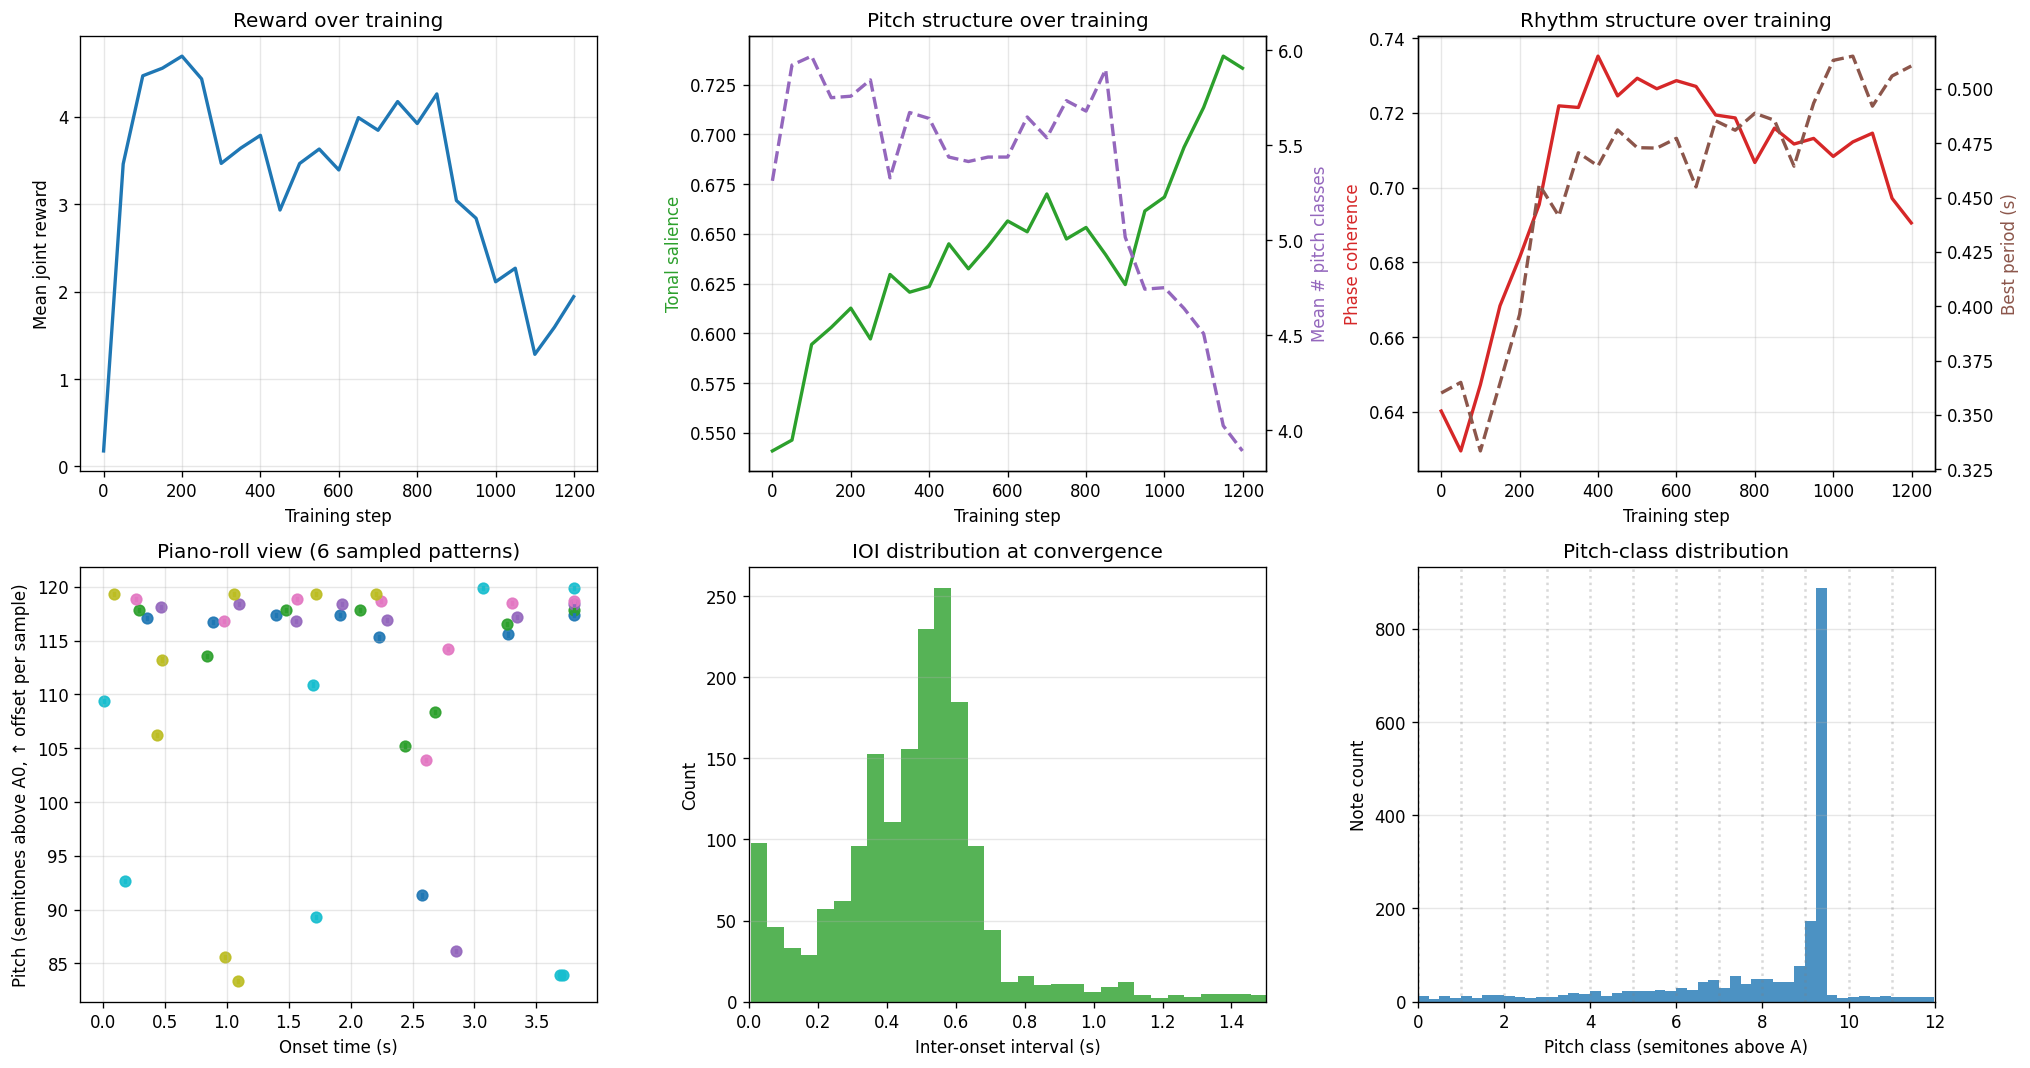
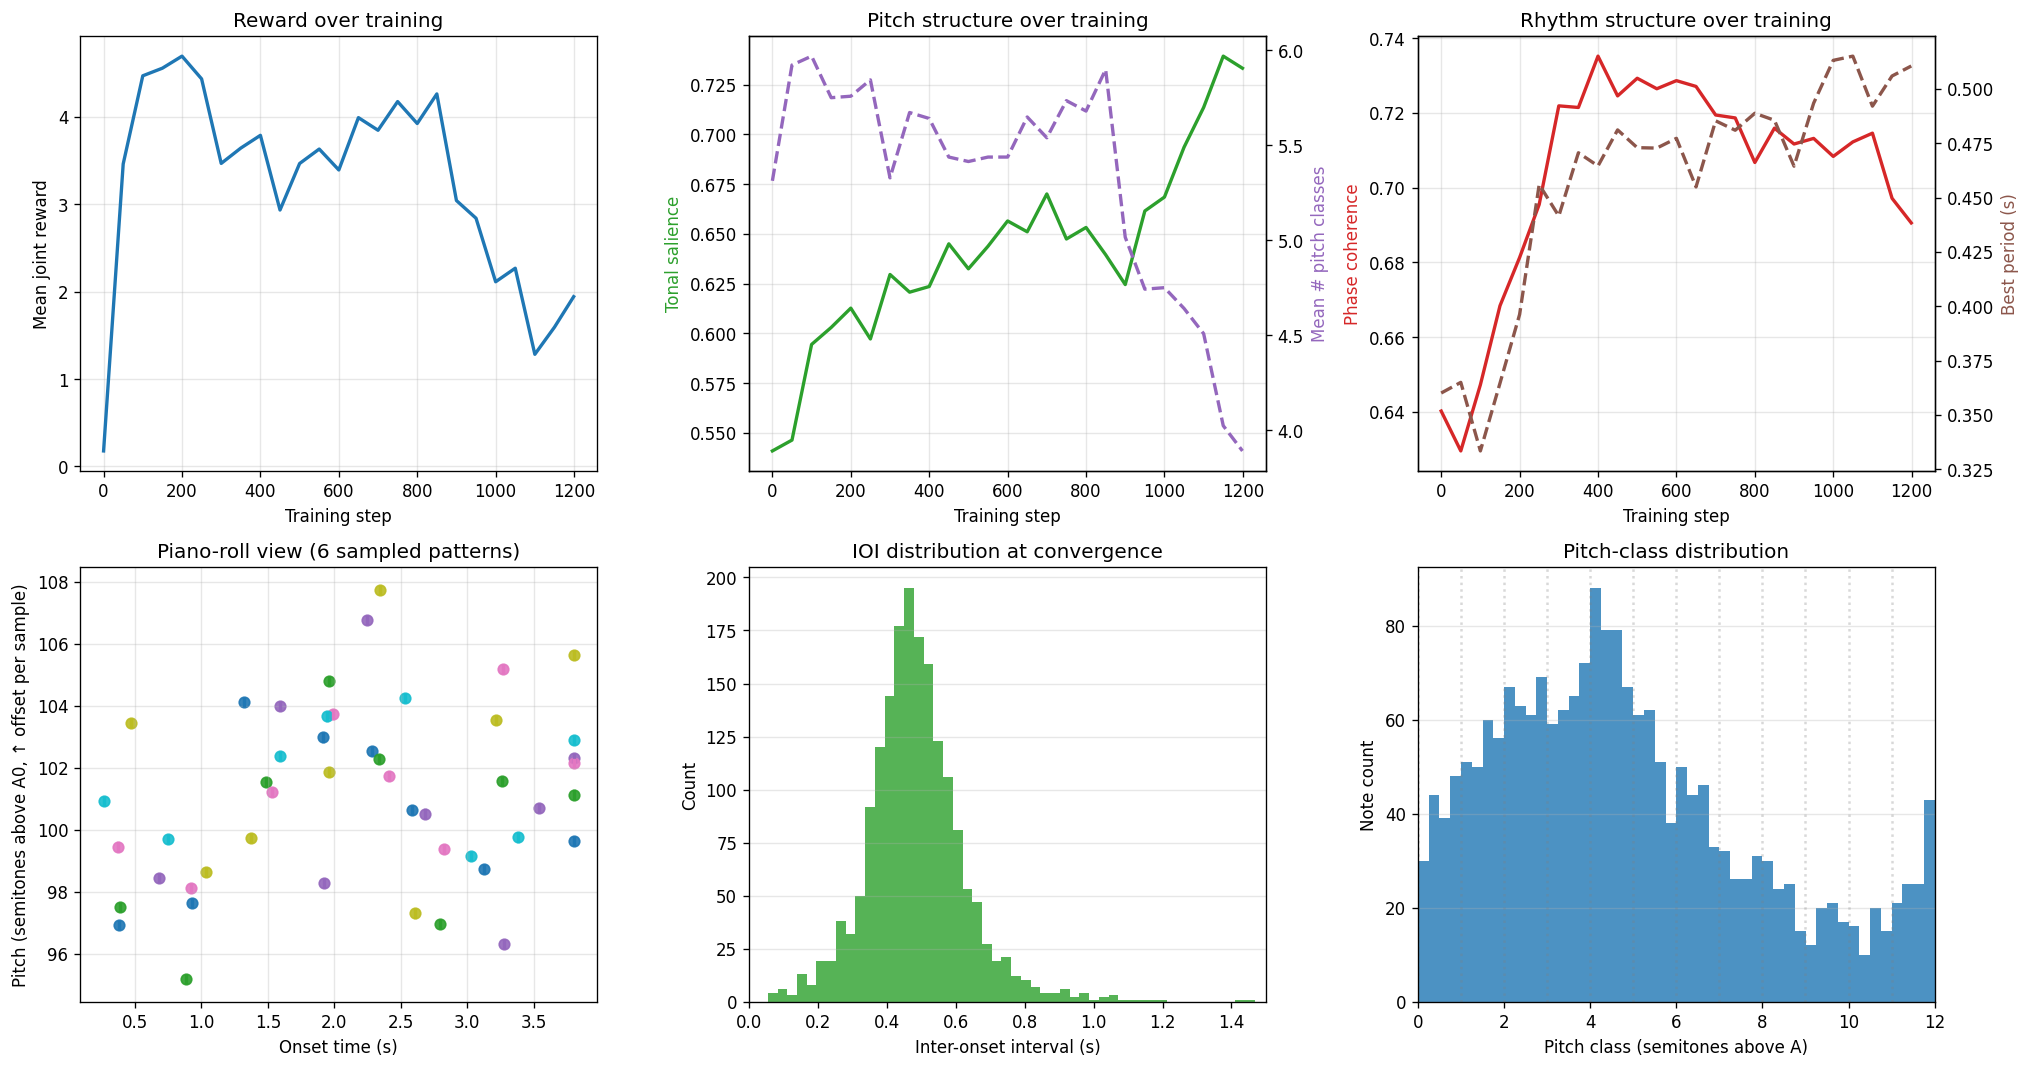
best-checkpoint saving + retrain phases 3/4/4.5
REINFORCE drift late in training can flatten otherwise good models. Each
training script now tracks the highest eval-reward checkpoint and saves
that instead of the final-step model. After retraining at the same
hyperparameters:

- Phase 3 melodies: best step 1450, reward +2.13 (random ≈ 0)
- Phase 4 rhythms:  best step 1550, reward +2.81, phase coherence ~0.83
- Phase 4.5 joint:  best step  200, reward +4.69 — a 2.5× improvement
  over the previous "final-step" save. The peak-then-decline trajectory
  in Phase 4.5 was exactly what best-ckpt is designed to rescue.

Plots and audio re-rendered from the new checkpoints.

diff --git a/src/train/triad_train.py b/src/train/triad_train.py
@@ -73,6 +73,8 @@ def train_triads(n_steps=2000, batch_size=64, lr=1e-3, log_every=50,
     out_path = Path(out_dir)
     out_path.mkdir(parents=True, exist_ok=True)
     history = []
+    best_eval_reward = -float("inf")
+    best_state = None
 
     for step in range(n_steps):
         # We need the distribution for entropy as well as log_prob,
@@ -117,7 +119,14 @@ def train_triads(n_steps=2000, batch_size=64, lr=1e-3, log_every=50,
             print(f"[{step:5d}] reward={entry['mean_reward']:+.3f}  "
                   f"diss={entry['mean_dissonance']:.3f}  "
                   f"top={top}")
+            if entry["mean_reward"] > best_eval_reward:
+                best_eval_reward = entry["mean_reward"]
+                best_state = {k: v.clone() for k, v in gen.state_dict().items()}
 
+    if best_state is not None:
+        print(f"Best eval reward: {best_eval_reward:+.3f}; "
+              "saving best checkpoint")
+        gen.load_state_dict(best_state)
     torch.save(gen.state_dict(), out_path / "triad_generator.pt")
     with open(out_path / "history.json", "w") as f:
         json.dump(history, f, indent=2)
@@ -145,6 +154,8 @@ def train_progressions(n_steps=2500, batch_size=64, lr=1e-3, log_every=50,
     out_path = Path(out_dir)
     out_path.mkdir(parents=True, exist_ok=True)
     history = []
+    best_eval_reward = -float("inf")
+    best_state = None
 
     for step in range(n_steps):
         z = torch.randn(batch_size, gen.latent_dim)
@@ -196,7 +207,14 @@ def train_progressions(n_steps=2500, batch_size=64, lr=1e-3, log_every=50,
                   f"diss={entry['mean_dissonance']:.3f}  "
                   f"vl={entry['mean_voice_leading']:.4f}  "
                   f"top={top}")
+            if entry["mean_reward"] > best_eval_reward:
+                best_eval_reward = entry["mean_reward"]
+                best_state = {k: v.clone() for k, v in gen.state_dict().items()}
 
+    if best_state is not None:
+        print(f"Best eval reward: {best_eval_reward:+.3f}; "
+              "saving best checkpoint")
+        gen.load_state_dict(best_state)
     torch.save(gen.state_dict(), out_path / "progression_generator.pt")
     with open(out_path / "history.json", "w") as f:
         json.dump(history, f, indent=2)

diff --git a/src/train/melodic_rhythm_train.py b/src/train/melodic_rhythm_train.py
@@ -61,6 +61,8 @@ def train_melodic_rhythm(n_steps=2500, batch_size=64, lr=3e-4, log_every=50,
     out_path = Path(out_dir)
     out_path.mkdir(parents=True, exist_ok=True)
     history = []
+    best_eval_reward = -float("inf")
+    best_state = None
 
     for step in range(n_steps):
         freqs, onsets, log_prob = gen.sample(batch_size)
@@ -105,7 +107,14 @@ def train_melodic_rhythm(n_steps=2500, batch_size=64, lr=3e-4, log_every=50,
                   f"#pc={entry['mean_pitch_classes']:.1f}  "
                   f"phase_coh={entry['mean_phase_coherence']:.3f}  "
                   f"period={entry['mean_period']:.3f}s")
+            if entry["mean_reward"] > best_eval_reward:
+                best_eval_reward = entry["mean_reward"]
+                best_state = {k: v.clone() for k, v in gen.state_dict().items()}
 
+    if best_state is not None:
+        print(f"Best eval reward: {best_eval_reward:+.3f}; "
+              "saving best checkpoint")
+        gen.load_state_dict(best_state)
     torch.save(gen.state_dict(), out_path / "melodic_rhythm_generator.pt")
     with open(out_path / "history.json", "w") as f:
         json.dump(history, f, indent=2)

diff --git a/src/train/melody_train.py b/src/train/melody_train.py
@@ -63,6 +63,8 @@ def train_melodies(n_steps=3000, batch_size=64, lr=3e-4, log_every=50,
     out_path = Path(out_dir)
     out_path.mkdir(parents=True, exist_ok=True)
     history = []
+    best_eval_reward = -float("inf")
+    best_state = None
     kw = dict(tonal_weight=tonal_weight,
               contour_weight=contour_weight,
               diversity_weight=diversity_weight,
@@ -116,7 +118,14 @@ def train_melodies(n_steps=3000, batch_size=64, lr=3e-4, log_every=50,
                   f"diss={entry['mean_dissonance']:.3f}  "
                   f"contour={entry['mean_contour']:.2f}  "
                   f"#pc={entry['mean_pitch_classes']:.1f}")
+            if entry["mean_reward"] > best_eval_reward:
+                best_eval_reward = entry["mean_reward"]
+                best_state = {k: v.clone() for k, v in gen.state_dict().items()}
 
+    if best_state is not None:
+        print(f"Best eval reward: {best_eval_reward:+.3f}; "
+              "saving best checkpoint")
+        gen.load_state_dict(best_state)
     torch.save(gen.state_dict(), out_path / "melody_generator.pt")
     with open(out_path / "history.json", "w") as f:
         json.dump(history, f, indent=2)

diff --git a/src/train/rhythm_train.py b/src/train/rhythm_train.py
@@ -55,6 +55,8 @@ def train_rhythms(n_steps=2000, batch_size=64, lr=3e-4, log_every=50,
     out_path = Path(out_dir)
     out_path.mkdir(parents=True, exist_ok=True)
     history = []
+    best_eval_reward = -float("inf")
+    best_state = None
     kw = dict(entrainment_weight=entrainment_weight,
               diversity_weight=diversity_weight,
               sparsity_weight=sparsity_weight,
@@ -104,7 +106,14 @@ def train_rhythms(n_steps=2000, batch_size=64, lr=3e-4, log_every=50,
                   f"ac={entry['mean_autocorr']:.3f}  "
                   f"period={entry['mean_best_period']:.3f}s  "
                   f"ioi_med={entry['median_ioi']:.3f}±{entry['std_ioi']:.3f}")
+            if entry["mean_reward"] > best_eval_reward:
+                best_eval_reward = entry["mean_reward"]
+                best_state = {k: v.clone() for k, v in gen.state_dict().items()}
 
+    if best_state is not None:
+        print(f"Best eval reward: {best_eval_reward:+.3f}; "
+              "saving best checkpoint")
+        gen.load_state_dict(best_state)
     torch.save(gen.state_dict(), out_path / "rhythm_generator.pt")
     with open(out_path / "history.json", "w") as f:
         json.dump(history, f, indent=2)

diff --git a/README.md b/README.md
@@ -106,7 +106,7 @@ python -m src.train.rhythm_plot
 
 A single generator emits N (pitch, IOI) pairs from one shared MLP. The reward sums the Phase-3 melody reward (on the pitches) and the Phase-4 rhythm reward (on the cumulative-sum onsets) — both terms operate on outputs of the same network, so pitch and timing can co-vary.
 
-After ~1200 steps the joint generator hits **tonal salience ≈ 0.73** (highest of any phase), **phase coherence ≈ 0.69**, and a discovered period **≈ 0.5 s (120 BPM)** — i.e. it carries both Phase-3 pitch structure and Phase-4 temporal structure simultaneously. The reward peaks earlier (~step 800) and then trades a few percent of headline reward for a tighter tonal commitment as the entropy term goes negative.
+In ~1200 steps the joint generator hits a peak reward of **+4.69** (random ≈ +0.2), with **tonal salience ≈ 0.65**, **phase coherence ≈ 0.71**, and a discovered period at **120 BPM** — i.e. it carries both Phase-3 pitch structure and Phase-4 temporal structure simultaneously. The training loop saves the best checkpoint by eval reward to avoid REINFORCE's late-training drift, so the deployed model is the peak.
 
 ![Phase 4.5 — joint melodic rhythm](results/phase4_5_melodic_rhythm/melodic_rhythm_summary.png)
 
@@ -156,7 +156,14 @@ python -m src.train.melodic_rhythm_plot
 python -m src.render.render_phases
 ```
 
-Phase 1 also runs as a self-contained Colab notebook: `notebooks/01_toy_consonance.ipynb`.
+Phases 1 and 2-4.5 also run as self-contained Colab notebooks: `notebooks/01_toy_consonance.ipynb` and `notebooks/02_triads_and_melodies.ipynb`.
+
+The reward functions are covered by property tests:
+
+```bash
+pip install pytest
+python -m pytest tests/
+```
 
 ## Roadmap
 